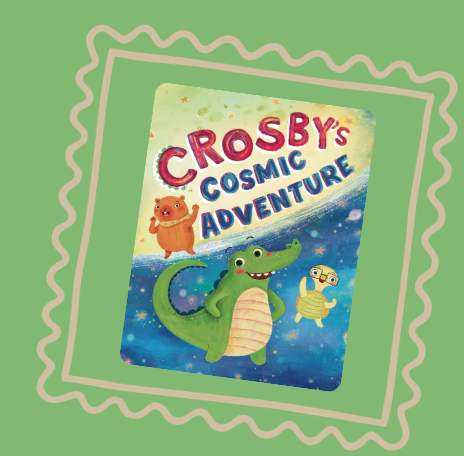
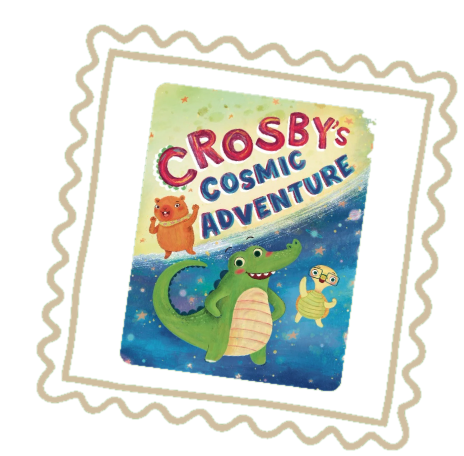
Fix tablet cover glitch; mark the Amazon edition as paperback
- crosbycoverhome.png had an opaque green background, so at tablet
  widths its rectangle poked out past the green blob. The flat
  background is now transparent (the cover itself, including Crosby's
  greens, is protected and unchanged).
- Amazon button gains a small "paperback" tag, and the book's JSON-LD
  now describes the Amazon listing as its paperback edition
  (workExample with bookFormat Paperback) instead of a bare sameAs.
- A little more spacing under the home buy buttons on phones so the
  wider Amazon button clears the blob's scalloped edge.

diff --git a/src/lib/seo.js b/src/lib/seo.js
@@ -37,5 +37,10 @@ export const book = {
     "Crosby the crocodile worries his tail's too thick and his claws too long. With a little courage and help from his friends Carla the capybara and Tank the turtle, he discovers just how brightly he can shine. A heartwarming story about bravery, belonging, and believing in yourself, for ages 4–8.",
   image: OG_IMAGE.url,
   url: `${SITE_URL}/book`,
-  sameAs: [AMAZON_URL],
+  // the Amazon listing is the paperback edition of the book
+  workExample: {
+    "@type": "Book",
+    bookFormat: "https://schema.org/Paperback",
+    url: AMAZON_URL,
+  },
 };

diff --git a/src/lib/BuyButtons.svelte b/src/lib/BuyButtons.svelte
@@ -32,5 +32,6 @@
     class="inline-flex items-center gap-2 rounded-full border-2 border-[#352f47] bg-white px-7 py-[0.625rem] text-lg font-black uppercase tracking-widest text-[#352f47] shadow-lg transition hover:bg-[#352f47] hover:text-white active:scale-95"
   >
     buy on amazon
+    <span class="rounded-full bg-[#352f47]/10 px-2 py-0.5 text-[0.65rem] tracking-wider normal-case">paperback</span>
   </a>
 </div>

diff --git a/src/routes/+page.svelte b/src/routes/+page.svelte
@@ -385,7 +385,7 @@
             class="w-[85%] h-auto object-contain"
             loading="lazy"
           />
-          <BuyButtons class="mb-10 sm:mb-12 lg:mb-0" />
+          <BuyButtons class="mb-14 sm:mb-12 lg:mb-0" />
         </div>
       </div>
     </div>

diff --git a/README.md b/README.md
@@ -91,8 +91,8 @@ placeholder.
 - **Characters:** Carla, Crosby, and Tank — featured on the home page.
 - **Book purchases:** `src/lib/BuyButtons.svelte` (used on `/book` and the home page) shows a
   "buy now" button for the Shopify store (`catchupwithalice.myshopify.com`) and a
-  "buy on amazon" button (`amazon.com/dp/B0HFTDNCKW`), both opening in a new tab. The URLs
-  live in `src/lib/seo.js`; the Amazon link is also in the book's JSON-LD `sameAs`.
+  "buy on amazon · paperback" button (`amazon.com/dp/B0HFTDNCKW`), both opening in a new tab. The URLs
+  live in `src/lib/seo.js`; the book's JSON-LD lists the Amazon listing as its paperback edition (`workExample`).
 - **Newsletter:** "Join Crosby's Crew" — a MailerLite embedded form shown in a popup
   modal on the home page (`assets.mailerlite.com`, form id `QQryIS`).
 - **Freebies:** three printable coloring-page PDFs (Crosby, Tank, Carla) served from `static/`
